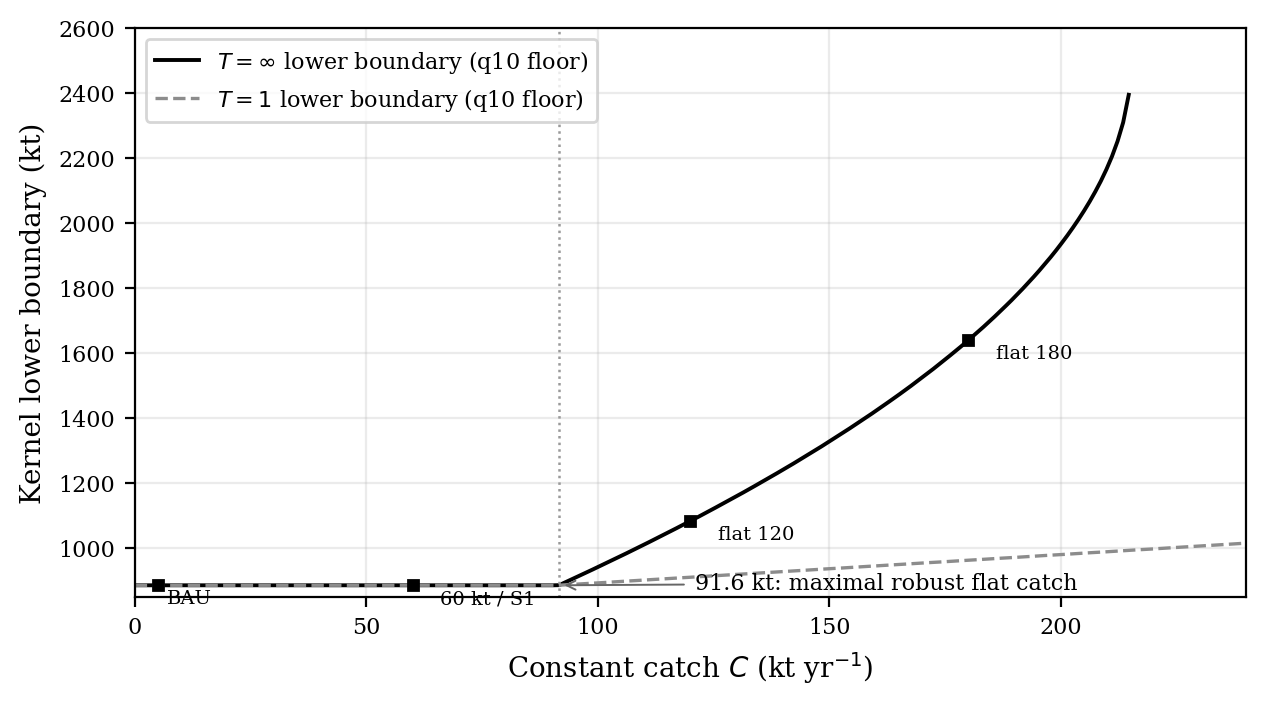
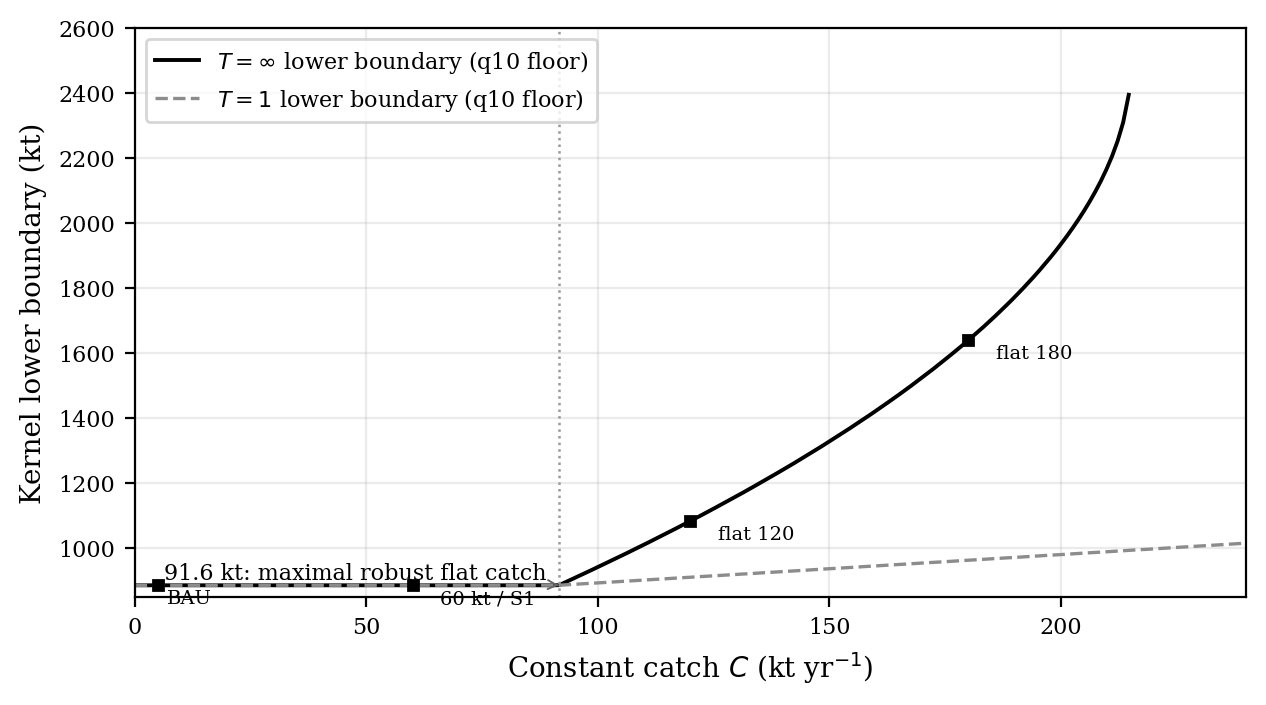
E2 v16 figures: seat fig2 91.6kt label beside its vertical line, fig5 LRP atop its dashed line, fig6b equation clear of y-axis

Changed region(s): [[0.1232, 0.7801, 0.4621, 0.8426], [0.4929, 0.8113, 0.8626, 0.8426]]

diff --git a/wave_e_cod/src/make_figs_v16.py b/wave_e_cod/src/make_figs_v16.py
@@ -126,12 +126,13 @@ fig, ax = plt.subplots(figsize=(6.4, 3.6))
 ax.plot(C, b_inf, "k-", lw=1.4, label="$T=\\infty$ lower boundary (q10 floor)")
 ax.plot(C, b_1, "0.55", ls="--", lw=1.2, label="$T=1$ lower boundary (q10 floor)")
 ax.axvline(cons, color="0.6", ls=":", lw=0.9)
-# annotation placed in the empty band below the dashed T=1 line (which stays
-# near y~908-98x for C>=118) and right of the BAU / 60-kt point labels; short
-# leader up to the marked vertical
+# The object this label names is the vertical dotted line at C=cons. The whole
+# region LEFT of that line and ABOVE the dashed T=1 boundary (y~884.6) is empty,
+# so the label sits snug beside the vertical, just above the base point, and a
+# short leader drops to the line.
 ax.annotate(f"{cons:.1f} kt: maximal robust flat catch",
             xy=(cons, 884.6),
-            xytext=(121, 872), fontsize=8, ha="left",
+            xytext=(89, 905), fontsize=8, ha="right",
             arrowprops=dict(arrowstyle="->", color="0.4", lw=0.7))
 for c_mark, lab, dx, dy in ((5, "BAU", 2, -55), (60, "60 kt / S1", 6, -55),
                             (120, "flat 120", 6, -55), (180, "flat 180", 6, -55),
@@ -235,9 +236,9 @@ for nm, f, ls, col in policies:
 obs = [861.9] + [float(ssb[np.where(years == y)[0][0]]) for y in range(1991, 1996)]
 ax.plot(yrs, obs, "k-", lw=2.2, label="observed SSB (Table A2)")
 ax.axhline(K_star, color="0.4", ls="--", lw=0.9)
-# LRP label pushed into the empty upper-left corner, clear of the trace bundle
-# that peaks near 1991 at ~950 ft and well above the dashed LRP line
-ax.text(1989.68, 1055, "LRP 884.6", fontsize=8, ha="left", va="top", color="0.25")
+# LRP label seated right on top of the horizontal dashed line it names, in the
+# empty area to the right (the forecast traces all run below y=884.6 there)
+ax.text(1993.3, 890, "LRP 884.6", fontsize=8, ha="left", va="bottom", color="0.25")
 ax.set_xlabel("Year"); ax.set_ylabel("Spawning-stock biomass (kt)")
 ax.set_xlim(1989.55, 1995.6); ax.set_ylim(0, 1100); ax.grid(alpha=0.25)
 # legend in the empty lower-left where only the black observed line descends
@@ -263,10 +264,10 @@ a1.set_ylim(100, 700); a1.grid(alpha=0.25)
 a2.plot(kk, kdf["Fp_Kstar"], "ko-", ms=4, lw=1.2)
 a2.axhline(1.0, color="0.4", ls="--", lw=0.9)
 a2.axvline(2 * K_star, color="0.6", ls=":", lw=0.9)
-# label moved into the empty upper-left region (left of the dotted vertical the
-# curve stays below y=1.0), with a short leader to the marked vertical
+# label seated above the (rising) curve and clear of the y-axis spine on the
+# left; short leader to the marked vertical
 a2.annotate("$K = 2K^* = 1769.2$", xy=(2 * K_star, 1.0),
-            xytext=(1280, 1.12), fontsize=7.5, ha="center",
+            xytext=(1560, 1.115), fontsize=7.5, ha="center",
             arrowprops=dict(arrowstyle="->", color="0.4", lw=0.7))
 a2.set_xlabel("Carrying capacity $K$ (kt)")
 a2.set_ylabel("$F'(K^*)$ at the LRP")
